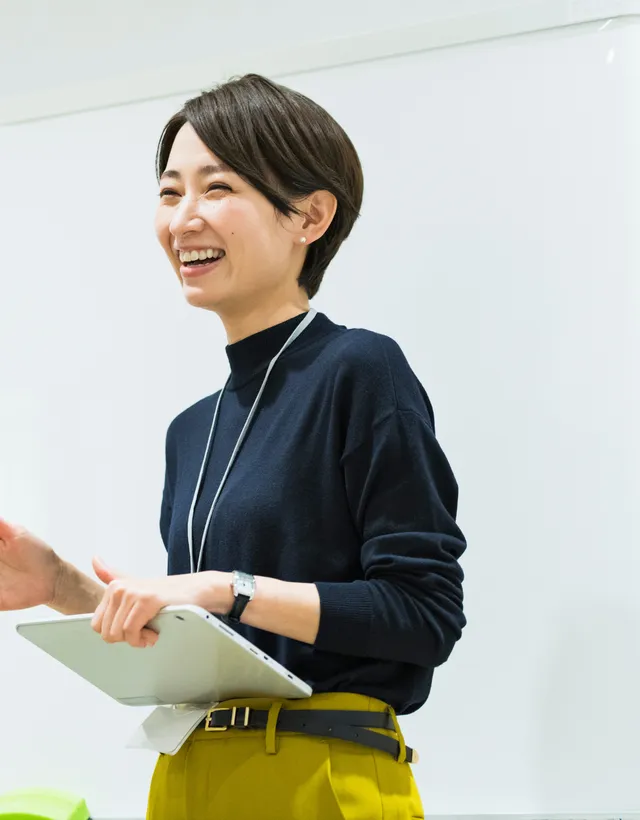
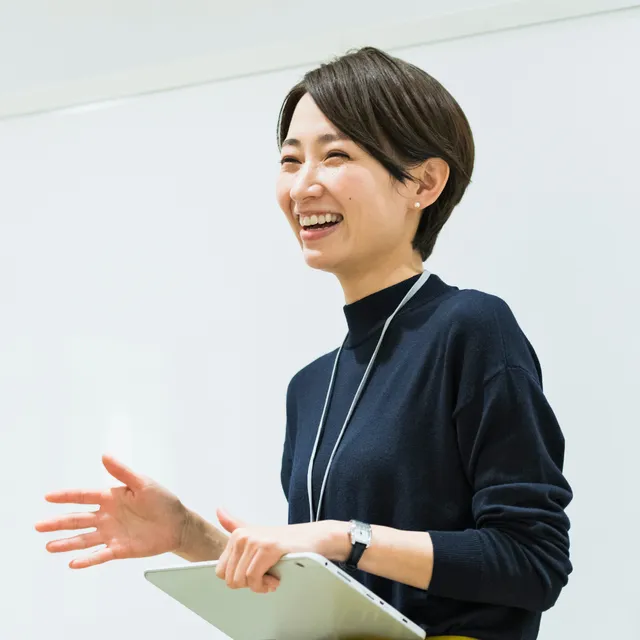
FV試作：女性の写真を手まで入るように切り直し
Claude-Session: https://claude.ai/code/session_01VW73FEpQRuiMMMwH3nvFfx

diff --git a/src/site.css b/src/site.css
@@ -693,7 +693,7 @@ svg.logo { display: block; width: 104px; height: 22px; }
 .fv4__pics img { width: 100%; height: 100%; object-fit: cover; display: block; min-height: 0; }
 .fv4__p1 { grid-area: 1 / 1 / 3 / 2; object-position: 55% 50%; }
 .fv4__p3 { grid-area: 1 / 2 / 2 / 3; object-position: 45% 30%; }
-.fv4__p4 { grid-area: 2 / 2 / 3 / 3; object-position: 30% 16%; }
+.fv4__p4 { grid-area: 2 / 2 / 3 / 3; object-position: 50% 50%; }
 .fv4__p5 { grid-area: 1 / 3 / 3 / 4; object-position: 30% 30%; }
 .fv4__pics .fv4__p2 { display: none; }
 .fv4__pics::after { content: ""; position: absolute; inset: 0;

diff --git a/src/build.py b/src/build.py
@@ -325,7 +325,7 @@ top = f'''
 <section class="fv">
 <div class="fv4 wrap wrap--fv">
 <div class="fv4__photo">
-<div class="fv4__pics" aria-hidden="true"><img class="fv4__p1" src="fv-seminar.webp" alt="" width="1100" height="600"><img class="fv4__p2" src="fv-talk.webp" alt="" width="900" height="601"><img class="fv4__p3" src="fv-board.webp" alt="" width="680" height="453"><img class="fv4__p4" src="fv-smile.webp" alt="" width="640" height="820"><img class="fv4__p5" src="fv-talk2.webp" alt="" width="640" height="820"></div>
+<div class="fv4__pics" aria-hidden="true"><img class="fv4__p1" src="fv-seminar.webp" alt="" width="1100" height="600"><img class="fv4__p2" src="fv-talk.webp" alt="" width="900" height="601"><img class="fv4__p3" src="fv-board.webp" alt="" width="680" height="453"><img class="fv4__p4" src="fv-smile.webp" alt="" width="640" height="640"><img class="fv4__p5" src="fv-talk2.webp" alt="" width="640" height="820"></div>
 <h1 class="fv4__title">価値ある挑戦を<br>必要な人に届けるために</h1>
 </div>
 <div class="fv4__card">
